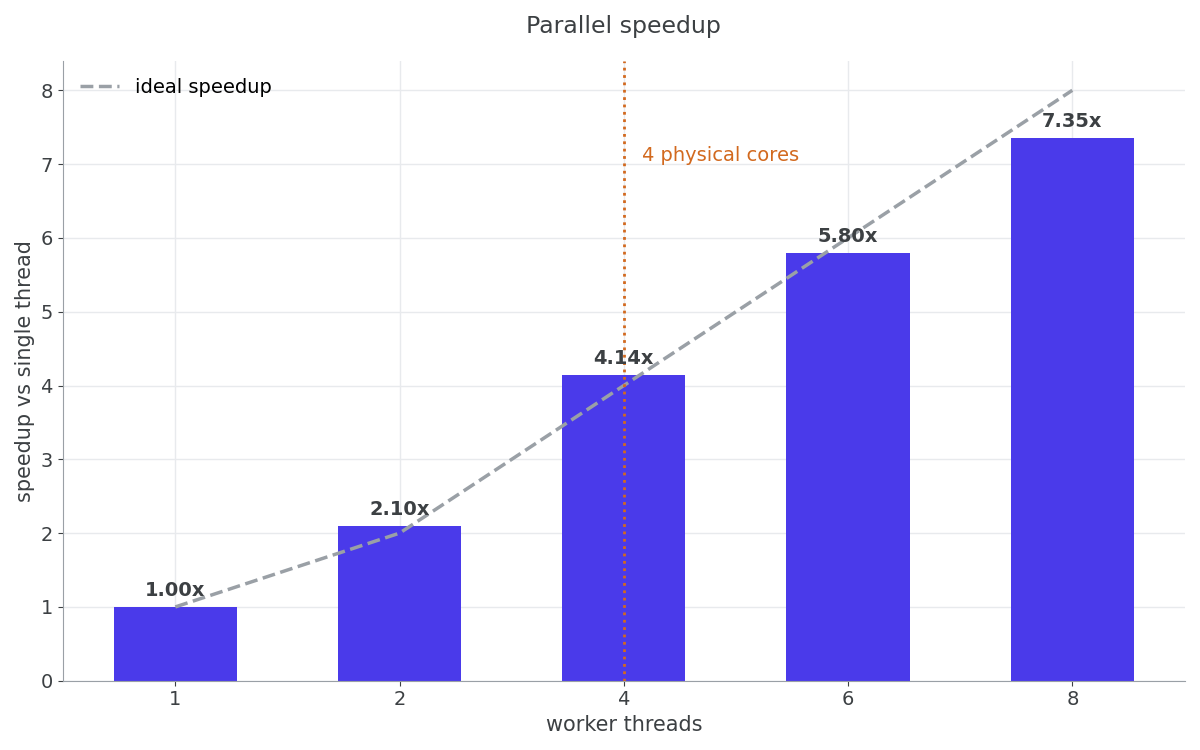
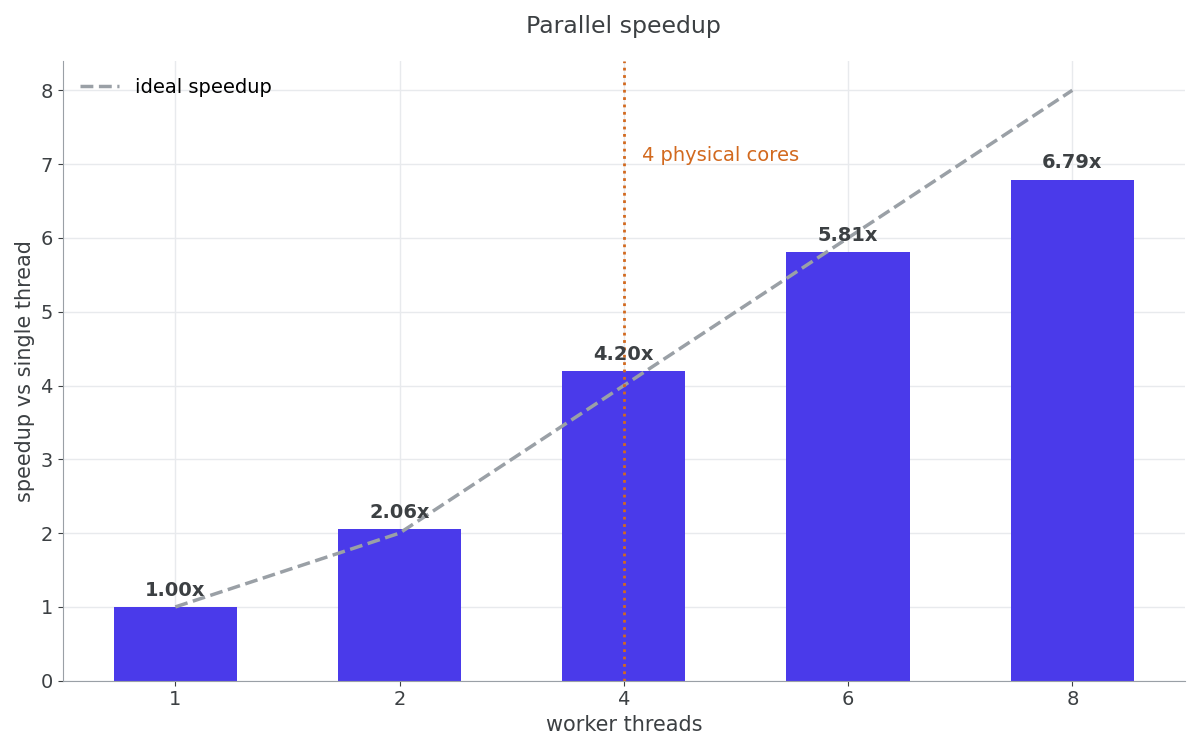
Final polish (#3)
* Assert exactly-once execution under concurrent submission

test_concurrent_submitters counted completions into a single atomic, so it
proved the net total was right but not that each task ran once: a task running
twice while another never ran produces the same total. In practice a duplicate
would have terminated the process, since invoking a packaged_task twice throws
promise_already_satisfied out of the worker loop — loud, but not an assertion,
and not something the test claimed to check.

Each task now owns a slot it alone writes to, and the test asserts no slot was
missed and none was written twice. Scaled to 8 producer threads submitting
8000 tasks between them, which still runs in half a second under TSan.

No scheduler changes: the implementation already passed. Verified the checks
are live by injecting a dropped task and a duplicated task id, each of which
fails the corresponding assertion.

* Report benchmark medians with spread, and test nested submit during shutdown

Two things, both about confidence rather than features.

The benchmark took the best of 3 runs. Best-of-N reports whichever run caught
the coolest thermal state, which on a laptop flatters the result and hides how
much it moves: measured spreads at 8 workers have run from a few percent to
well over 20% of the median. It now takes 10 runs and reports the median with
the slowest and fastest alongside, and the throughput chart draws them as
[…]

diff --git a/scripts/make_charts.py b/scripts/make_charts.py
@@ -20,20 +20,26 @@ BLUE, GREY, ORANGE = "#4a3aea", "#9aa0a6", "#d2691e"
 
 
 def parse(text):
-    """Pull the workload header and the (workers, tasks/sec, speedup) rows."""
+    """Pull the headers and the (workers, median, min, max, speedup) rows."""
     workload = re.search(r"workload:\s*(\d+)\s*tasks,\s*(\d+)\s*work-units", text)
     if not workload:
         sys.exit("could not find the workload line in the benchmark output")
 
+    sampling = re.search(r"sampling:\s*(\d+)\s*runs", text)
+    if not sampling:
+        sys.exit("could not find the sampling line in the benchmark output")
+
     rows = [
-        (int(w), float(rate), float(speedup))
-        for w, rate, speedup in re.findall(
-            r"^\s*(\d+)\s+([\d.]+)\s+([\d.]+)x\s*$", text, re.MULTILINE
+        (int(w), float(med), float(lo), float(hi), float(speedup))
+        for w, med, lo, hi, speedup in re.findall(
+            r"^\s*(\d+)\s+([\d.]+)\s+([\d.]+)\s+([\d.]+)\s+([\d.]+)x\s*$",
+            text, re.MULTILINE
         )
     ]
     if not rows:
         sys.exit("could not find any result rows in the benchmark output")
-    return (int(workload.group(1)), int(workload.group(2))), rows
+    return ((int(workload.group(1)), int(workload.group(2))),
+            int(sampling.group(1)), rows)
 
 
 def style(ax):
@@ -53,14 +59,19 @@ def core_marker(ax, x, cores):
 def throughput_chart(rows, cores, cpu, threads, out):
     workers = [r[0] for r in rows]
     rates = [r[1] for r in rows]
+    lo = [r[1] - r[2] for r in rows]
+    hi = [r[3] - r[1] for r in rows]
     fig, ax = plt.subplots(figsize=(12, 7.5), dpi=100)
     style(ax)
 
     ideal = [rates[0] * w for w in workers]
     ax.plot(workers, ideal, color=GREY, linestyle="--", linewidth=2.5,
             label="ideal linear scaling")
-    ax.plot(workers, rates, color=BLUE, marker="o", markersize=12, linewidth=3,
-            label="measured")
+    # Error bars span the slowest and fastest run, so the reader sees the
+    # spread rather than a single number standing in for it.
+    ax.errorbar(workers, rates, yerr=[lo, hi], color=BLUE, marker="o",
+                markersize=12, linewidth=3, elinewidth=2.5, capsize=9,
+                capthick=2.5, label="median (bars: min-max)")
 
     if cores in workers:
         core_marker(ax, cores, cores)
@@ -82,7 +93,7 @@ def throughput_chart(rows, cores, cpu, threads, out):
 
 def speedup_chart(rows, cores, out):
     workers = [r[0] for r in rows]
-    speedups = [r[2] for r in rows]
+    speedups = [r[4] for r in rows]
     pos = range(len(workers))
     fig, ax = plt.subplots(figsize=(12, 7.5), dpi=100)
     style(ax)
@@ -114,8 +125,9 @@ def speedup_chart(rows, cores, out):
     plt.close(fig)
 
 
-def results_md(workload, rows, cpu, cores, threads, compiler, out):
+def results_md(workload, reps, rows, cpu, cores, threads, compiler, out):
     count, work = workload
+    spread = max((r[3] - r[2]) / r[1] for r in rows) * 100
     lines = [
         "# Benchmark results",
         "",
@@ -123,26 +135,36 @@ def results_md(workload, rows, cpu, cores, threads, compiler, out):
         "",
         f"Hardware: {cpu} ({cores} physical cores / {threads} threads), Linux, "
         f"{compiler}, CMake Release build.",
-        f"Workload: {count} CPU-bound tasks, {work} work-units each. "
-        "Best of 3 runs per worker count.",
-        "Speedup is relative to the same scheduler running with 1 worker.",
+        f"Workload: {count} CPU-bound tasks, {work} work-units each.",
+        f"Sampling: {reps} runs per worker count; the median is reported, with "
+        "the slowest and",
+        "fastest run alongside it. Speedup is median relative to the "
+        "1-worker median.",
         "",
-        "| workers | tasks/sec | speedup |",
-        "|--------:|----------:|--------:|",
+        "| workers | median tasks/sec | min | max | speedup |",
+        "|--------:|-----------------:|----:|----:|--------:|",
     ]
-    for w, rate, speedup in rows:
-        lines.append(f"| {w:<7} | {rate:<9.0f} | {speedup:.2f}x   |")
+    for w, med, lo, hi, speedup in rows:
+        lines.append(f"| {w:<7} | {med:<16.0f} | {lo:.0f} | {hi:.0f} "
+                     f"| {speedup:.2f}x |")
     lines += [
         "",
-        f"Near-linear scaling to {cores} workers (matching the {cores} physical",
-        f"cores), with continued, smaller gains through {threads} hardware threads",
-        "(hyper-threading).",
+        f"Throughput tracks the ideal line closely through the {cores} physical",
+        f"cores, then keeps climbing with diminishing returns across all "
+        f"{threads}",
+        "hardware threads (hyper-threading). Where a median sits slightly above",
+        "the ideal line, that is the 1-worker baseline drifting, not "
+        "super-linear",
+        "scaling — see the spread below.",
         "",
-        "One caveat on reading these: the single-worker baseline is stable run to",
-        f"run, but the figures above {cores} workers move by 10-20% between",
-        "invocations on thermally-constrained hardware, because sustained",
-        "all-core turbo clocks drop as the package heats up. Treat the",
-        "hyper-threaded rows as a range, not a fixed number.",
+        "The min and max columns are the point of this table. The widest row "
+        f"spans {spread:.0f}% of",
+        "its own median, because sustained all-core turbo clocks fall as the "
+        "package heats",
+        "up on thermally-constrained hardware. A best-of-N figure would report "
+        "only the",
+        "luckiest run and hide that entirely, so the median is reported "
+        "instead.",
         "",
     ]
     out.write_text("\n".join(lines))
@@ -157,13 +179,13 @@ def main():
     ap.add_argument("--docs", type=Path, required=True)
     args = ap.parse_args()
 
-    workload, rows = parse(sys.stdin.read())
+    workload, reps, rows = parse(sys.stdin.read())
     args.docs.mkdir(parents=True, exist_ok=True)
 
     throughput_chart(rows, args.cores, args.cpu, args.threads,
                      args.docs / "scaling_throughput.png")
     speedup_chart(rows, args.cores, args.docs / "scaling_speedup.png")
-    results_md(workload, rows, args.cpu, args.cores, args.threads,
+    results_md(workload, reps, rows, args.cpu, args.cores, args.threads,
                args.compiler, args.docs / "results.md")
 
     print(f"wrote {args.docs}/results.md, scaling_throughput.png, "

diff --git a/tests/test_task_scheduler.cpp b/tests/test_task_scheduler.cpp
@@ -96,23 +96,38 @@ void test_stealing_happens() {
     CHECK(pool.steal_count() > 0);
 }
 
+// Several external threads submitting at once. Each task owns one slot and
+// writes only to it, so the check is per task rather than a running total: a
+// total would still come out right if one task ran twice and another never
+// ran at all.
 void test_concurrent_submitters() {
     ts::TaskScheduler pool(4);
-    std::atomic<int> ran{0};
-    const int threads = 4, per_thread = 500;
+    const int producers = 8, per_producer = 1000;
+    const int total = producers * per_producer;
+    std::vector<std::atomic<int>> ran(total);
 
     std::vector<std::jthread> submitters;
-    for (int t = 0; t < threads; ++t)
-        submitters.emplace_back([&pool, &ran] {
+    for (int p = 0; p < producers; ++p)
+        submitters.emplace_back([&pool, &ran, p] {
             std::vector<std::future<void>> fs;
-            for (int i = 0; i < per_thread; ++i)
+            fs.reserve(per_producer);
+            for (int i = 0; i < per_producer; ++i) {
+                const int id = p * per_producer + i;
                 fs.push_back(pool.submit(
-                    [&ran] { ran.fetch_add(1, std::memory_order_relaxed); }));
+                    [&ran, id] { ran[id].fetch_add(1, std::memory_order_relaxed); }));
+            }
             for (auto& f : fs) f.get();
         });
     submitters.clear();  // join
 
-    CHECK(ran.load() == threads * per_thread);
+    int missing = 0, repeated = 0;
+    for (auto& slot : ran) {
+        const int n = slot.load(std::memory_order_relaxed);
+        if (n == 0) ++missing;
+        if (n > 1) ++repeated;
+    }
+    CHECK(missing == 0);
+    CHECK(repeated == 0);
 }
 
 void test_recursive_submit() {
@@ -122,6 +137,29 @@ void test_recursive_submit() {
         return child.get() * 2;
     });
     CHECK(outer.get() == 42);
+}
+
+// Tasks that spawn more work while the pool is winding down. A worker is
+// allowed to submit during the drain — only outside submitters are rejected —
+// and no worker exits until every queue is empty, so the children have to run
+// even though they were created after shutdown began. Nothing waits on the
+// parents here: the point is to have work still in flight when the destructor
+// starts.
+void test_nested_submit_during_shutdown() {
+    const int parents = 50;
+    std::atomic<int> ran{0};
+    {
+        ts::TaskScheduler pool(4);
+        for (int i = 0; i < parents; ++i)
+            pool.submit([&pool, &ran] {
+                ran.fetch_add(1, std::memory_order_relaxed);
+                for (int c = 0; c < 2; ++c)
+                    pool.submit([&ran] {
+                        ran.fetch_add(1, std::memory_order_relaxed);
+                    });
+            });
+    }  // drains parents and whatever they spawned on the way out
+    CHECK(ran.load() == parents * 3);
 }
 
 void test_current_worker_reporting() {
@@ -167,6 +205,7 @@ int main() {
     test_stealing_happens();
     test_concurrent_submitters();
     test_recursive_submit();
+    test_nested_submit_during_shutdown();
     test_current_worker_reporting();
     test_submit_after_shutdown_throws();
 

diff --git a/benchmarks/benchmark.cpp b/benchmarks/benchmark.cpp
@@ -40,24 +40,44 @@ double throughput(std::size_t workers, int count, std::uint64_t work) {
     return count / secs;
 }
 
+double median(std::vector<double> samples) {
+    std::sort(samples.begin(), samples.end());
+    const std::size_t n = samples.size();
+    return n % 2 ? samples[n / 2]
+                 : (samples[n / 2 - 1] + samples[n / 2]) / 2.0;
+}
+
 }  // namespace
 
 int main() {
     const int count = 4000;
     const std::uint64_t work = 100000;
+    const int reps = 10;
 
-    std::printf("workload: %d tasks, %llu work-units each\n\n", count,
+    std::printf("workload: %d tasks, %llu work-units each\n", count,
                 static_cast<unsigned long long>(work));
-    std::printf("%-9s %-14s %s\n", "workers", "tasks/sec", "speedup");
+    // Median rather than best-of-N: the fastest run is the one that happened to
+    // catch the coolest thermal state, so taking it overstates what the pool
+    // sustains. Min and max are reported so the spread is visible instead of
+    // hidden.
+    std::printf("sampling: %d runs per worker count, median reported\n\n", reps);
+    std::printf("%-9s %-12s %-12s %-12s %s\n", "workers", "median", "min",
+                "max", "speedup");
 
     double base = 0;
     for (std::size_t w : {std::size_t(1), std::size_t(2), std::size_t(4),
                           std::size_t(6), std::size_t(8)}) {
-        double best = 0;
-        for (int rep = 0; rep < 3; ++rep)  // best of 3 to reduce noise
-            best = std::max(best, throughput(w, count, work));
-        if (w == 1) base = best;
-        std::printf("%-9zu %-14.0f %.2fx\n", w, best, best / base);
+        std::vector<double> samples;
+        samples.reserve(reps);
+        for (int rep = 0; rep < reps; ++rep)
+            samples.push_back(throughput(w, count, work));
+
+        const double med = median(samples);
+        const auto [lo, hi] =
+            std::minmax_element(samples.begin(), samples.end());
+        if (w == 1) base = med;
+        std::printf("%-9zu %-12.0f %-12.0f %-12.0f %.2fx\n", w, med, *lo, *hi,
+                    med / base);
     }
     return 0;
 }

diff --git a/docs/results.md b/docs/results.md
@@ -3,23 +3,25 @@
 Regenerated by `scripts/run_benchmarks.sh` — edit that, not this file.
 
 Hardware: Intel Core i7-1165G7 (4 physical cores / 8 threads), Linux, GCC 13.3, CMake Release build.
-Workload: 4000 CPU-bound tasks, 100000 work-units each. Best of 3 runs per worker count.
-Speedup is relative to the same scheduler running with 1 worker.
+Workload: 4000 CPU-bound tasks, 100000 work-units each.
+Sampling: 10 runs per worker count; the median is reported, with the slowest and
+fastest run alongside it. Speedup is median relative to the 1-worker median.
 
-| workers | tasks/sec | speedup |
-|--------:|----------:|--------:|
-| 1       | 3979      | 1.00x   |
-| 2       | 8345      | 2.10x   |
-| 4       | 16478     | 4.14x   |
-| 6       | 23072     | 5.80x   |
-| 8       | 29233     | 7.35x   |
+| workers | median tasks/sec | min | max | speedup |
+|--------:|-----------------:|----:|----:|--------:|
+| 1       | 4040             | 3900 | 4161 | 1.00x |
+| 2       | 8306             | 7104 | 8417 | 2.06x |
+| 4       | 16986            | 16560 | 17114 | 4.20x |
+| 6       | 23488            | 22376 | 23828 | 5.81x |
+| 8       | 27423            | 26294 | 30603 | 6.79x |
 
-Near-linear scaling to 4 workers (matching the 4 physical
-cores), with continued, smaller gains through 8 hardware threads
-(hyper-threading).
+Throughput tracks the ideal line closely through the 4 physical
+cores, then keeps climbing with diminishing returns across all 8
+hardware threads (hyper-threading). Where a median sits slightly above
+the ideal line, that is the 1-worker baseline drifting, not super-linear
+scaling — see the spread below.
 
-One caveat on reading these: the single-worker baseline is stable run to
-run, but the figures above 4 workers move by 10-20% between
-invocations on thermally-constrained hardware, because sustained
-all-core turbo clocks drop as the package heats up. Treat the
-hyper-threaded rows as a range, not a fixed number.
+The min and max columns are the point of this table. The widest row spans 16% of
+its own median, because sustained all-core turbo clocks fall as the package heats
+up on thermally-constrained hardware. A best-of-N figure would report only the
+luckiest run and hide that entirely, so the median is reported instead.

diff --git a/README.md b/README.md
@@ -33,6 +33,8 @@ the owner holds it, the thief moves on to the next victim.
 - **Observability** — `current_worker()` and `steal_count()` for introspection.
 - **Tested** — unit tests run through CTest, and CI runs the suite under
   ThreadSanitizer and Address/UndefinedBehavior sanitizers (all clean).
+  Concurrent submission is covered by 8 producer threads submitting 8000 tasks,
+  each asserted to run exactly once.
 
 ## Quick start
 
@@ -141,8 +143,9 @@ cmake --install build --prefix /your/prefix
 
 ## Benchmarks
 
-4000 CPU-bound tasks spread across a growing pool, best of three runs per
-worker count. The hardware, compiler and full table live in
+4000 CPU-bound tasks spread across a growing pool, ten runs per worker count
+with the median reported and the slowest and fastest run shown alongside it.
+The hardware, compiler and full table live in
 [docs/results.md](docs/results.md) — `scripts/run_benchmarks.sh` regenerates
 that file and these two charts from the same run, so they cannot disagree.
 
@@ -150,10 +153,11 @@ that file and these two charts from the same run, so they cannot disagree.
 
 ![Parallel speedup](docs/scaling_speedup.png)
 
-Throughput scales close to linearly up to 4 workers, matching the 4 physical
-cores, and keeps climbing more slowly through 8 hardware threads
-(hyper-threading). Read the hyper-threaded rows as a range rather than a fixed
-number — the results file explains why.
+Throughput tracks the ideal line closely through the 4 physical cores, then
+keeps climbing with diminishing returns across all 8 hardware threads. The
+error bars are the slowest and fastest of the ten runs: tight while the pool
+fits in physical cores, wide once it does not, as sustained all-core turbo
+clocks fall away.
 
 To reproduce — this regenerates `docs/results.md` and both charts from one
 benchmark run, so the table and the pictures cannot drift apart:
